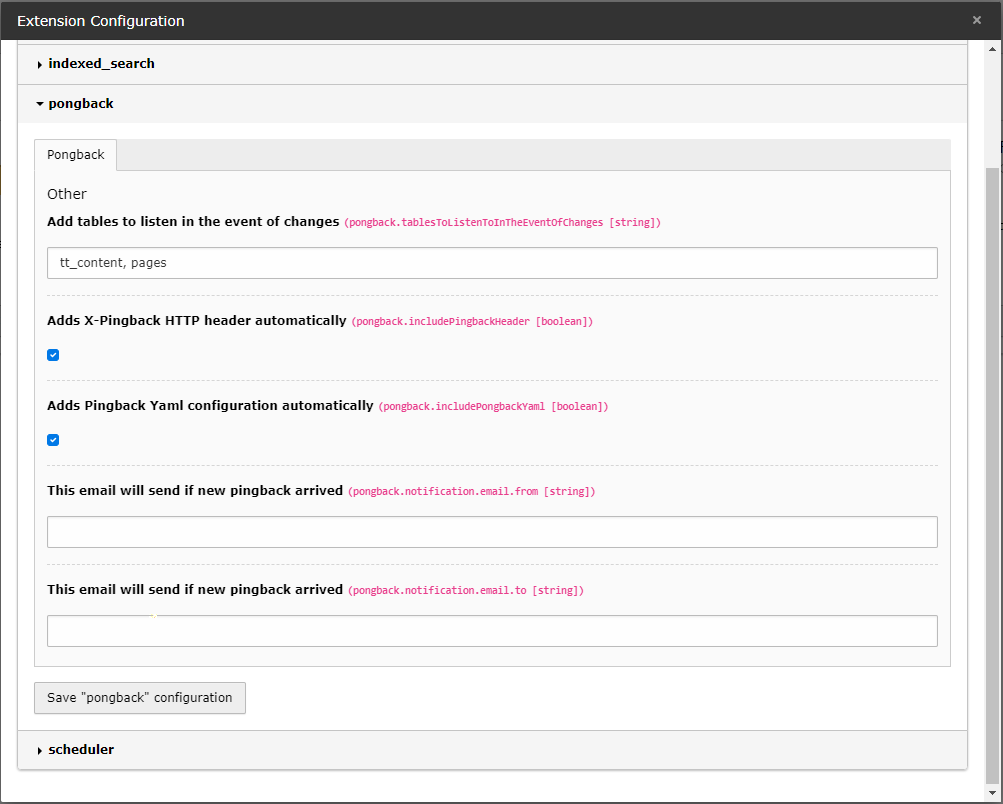
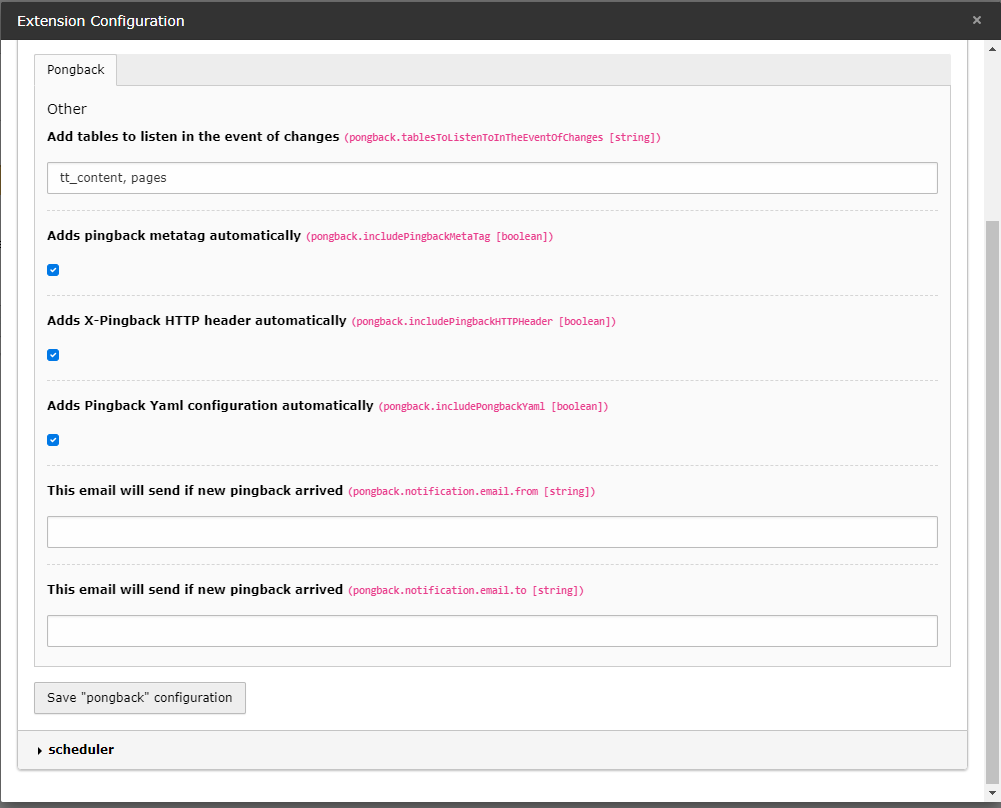
[TASK] Makes http header switchable

diff --git a/Configuration/RequestMiddlewares.php b/Configuration/RequestMiddlewares.php
@@ -2,11 +2,16 @@
 
 use Webicorns\Pongback\Middleware\PingbackMiddleware;
 
-return [
-    'frontend' => [
-        'pongback-pingback-header' => [
-            'target' => PingbackMiddleware::class,
-            'before' => ['typo3/cms-frontend/content-length-headers'],
+$extensionConfiguration = \TYPO3\CMS\Core\Utility\GeneralUtility::makeInstance(\TYPO3\CMS\Core\Configuration\ExtensionConfiguration::class);
+
+if ($extensionConfiguration->get('pongback', 'includePingbackHTTPHeader')) {
+    return [
+        'frontend' => [
+            'pongback-pingback-header' => [
+                'target' => PingbackMiddleware::class,
+                'before' => ['typo3/cms-frontend/content-length-headers'],
+            ],
         ],
-    ],
-];
+    ];
+
+}

diff --git a/ext_localconf.php b/ext_localconf.php
@@ -59,7 +59,7 @@ call_user_func(
 
         $GLOBALS['TYPO3_CONF_VARS']['SYS']['messenger']['routing'][PingbackMessage::class] = 'doctrine';
 
-        if ($extensionConfiguration->get($extensionKey, 'includePingbackHeader')) {
+        if ($extensionConfiguration->get($extensionKey, 'includePingbackMetaTag')) {
             $GLOBALS['TYPO3_CONF_VARS']['SC_OPTIONS']['TYPO3\CMS\Frontend\Page\PageGenerator']['generateMetaTags'][1_709_405_732_751] =
                 PingbackMetaTagGenerator::class . '->generate';
         }
